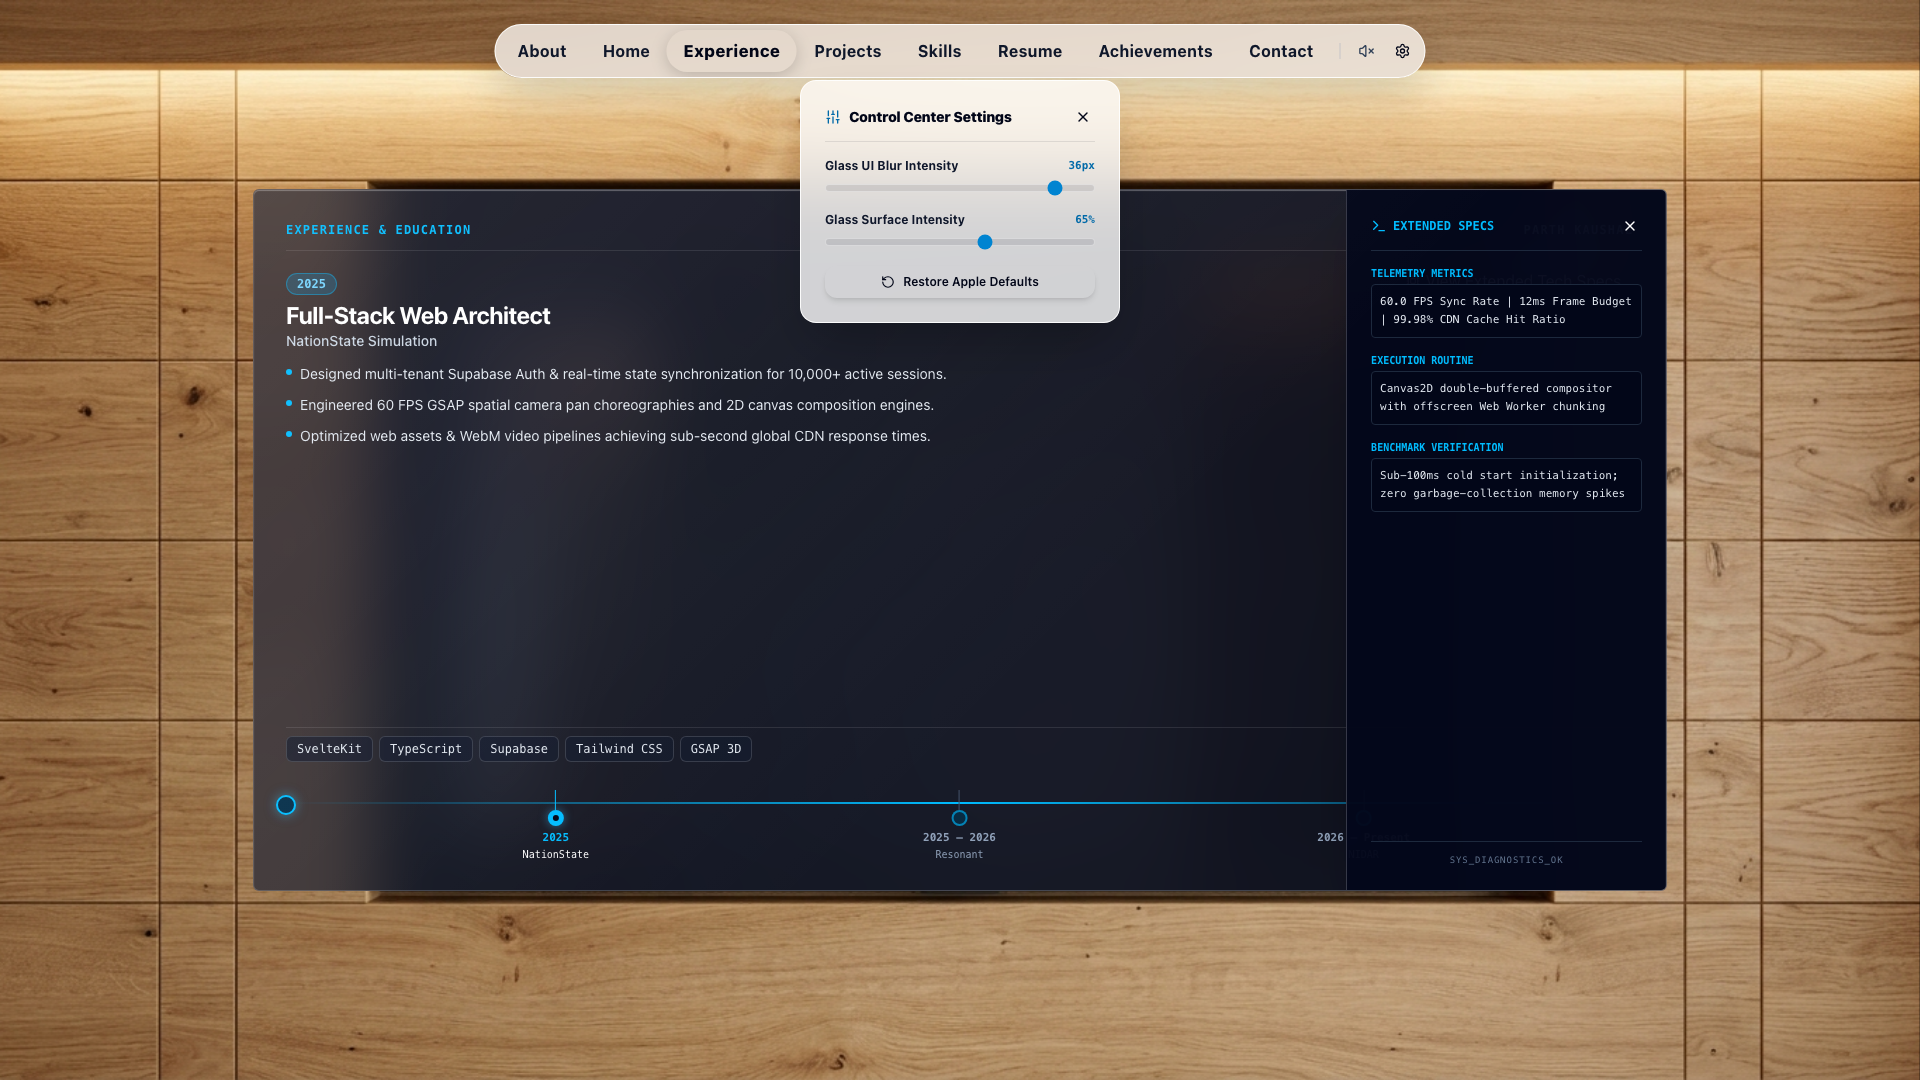
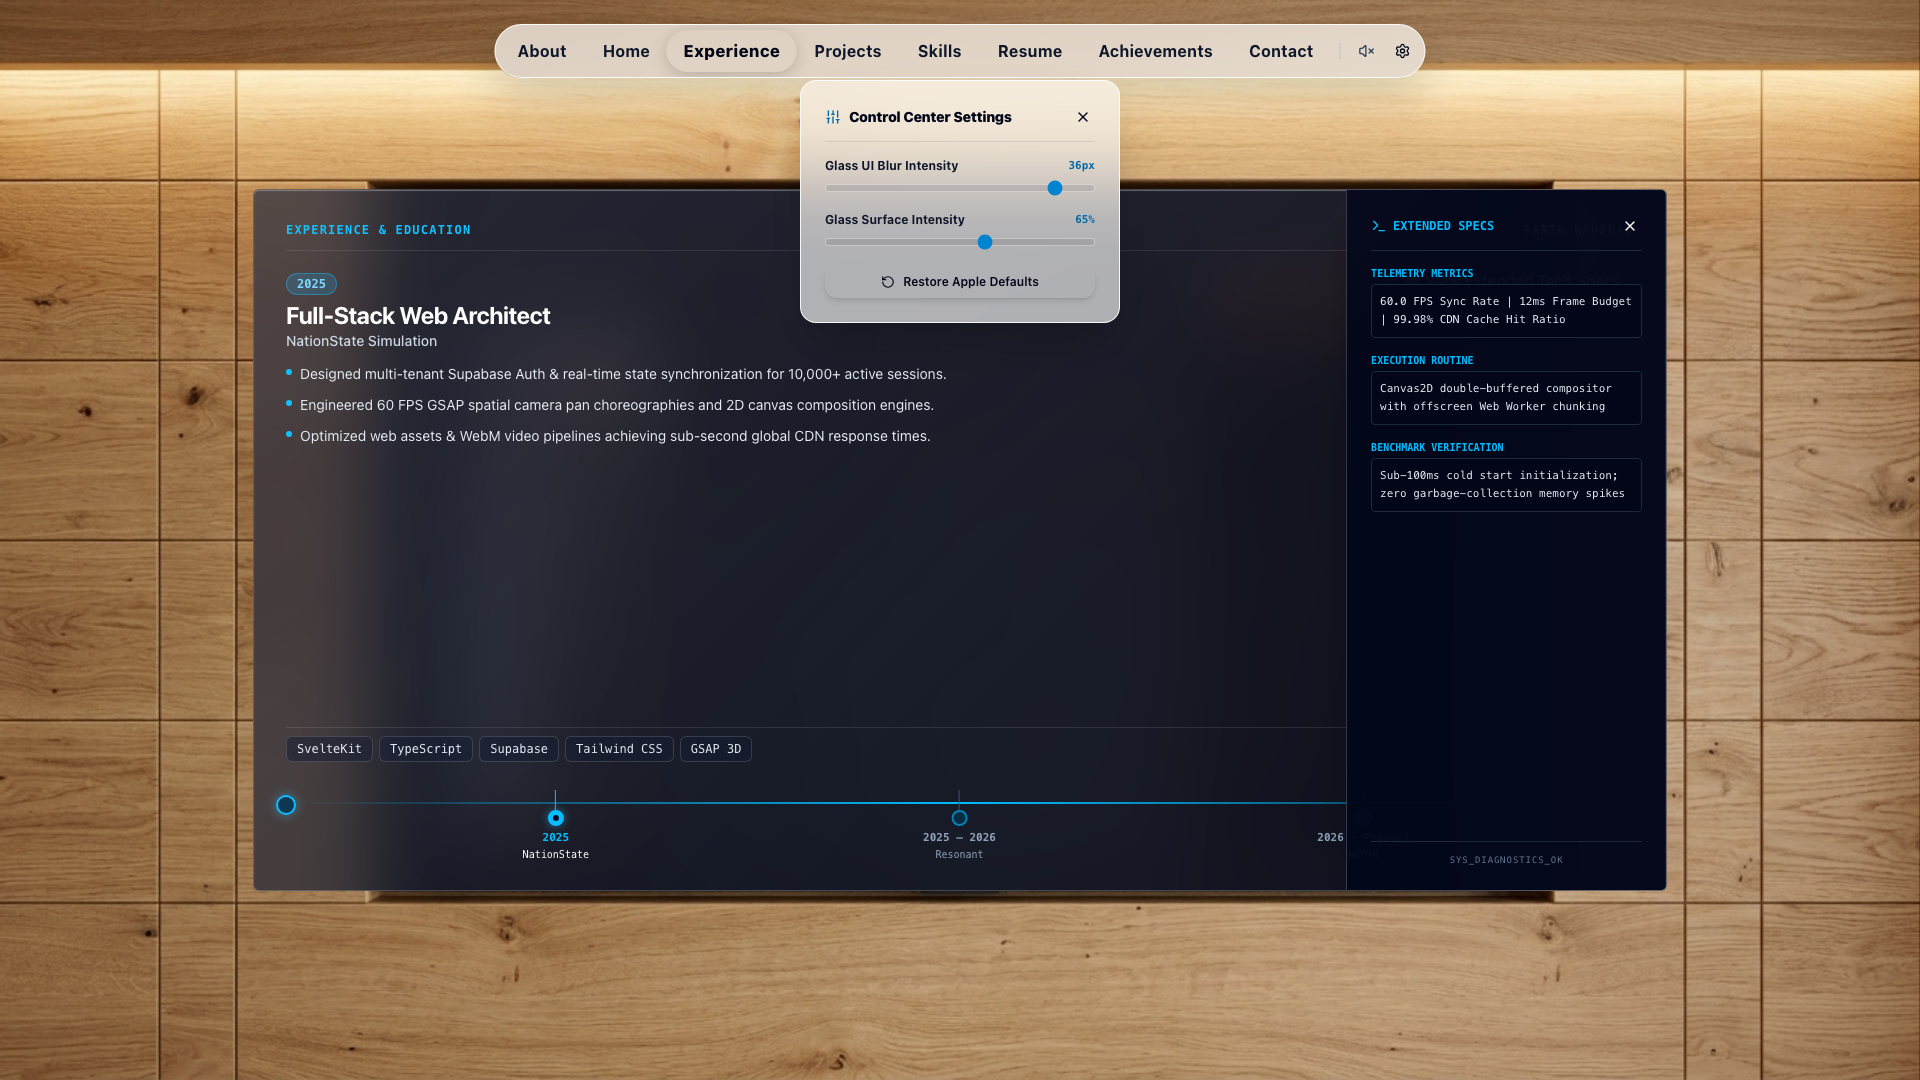
fix: synced all the sections to the settings changes

Changed region(s): [[0.4062, 0.1528, 0.5938, 0.3056]]

diff --git a/src/routes/+layout.svelte b/src/routes/+layout.svelte
@@ -77,7 +77,10 @@
 			></video>
 
 			<div class="card-overlay absolute inset-0 z-30 pointer-events-auto hidden sm:block">
-				<div class="bg-white/60 backdrop-blur-xl border border-white/40 shadow-[0_8px_32px_rgba(0,0,0,0.1)] rounded-3xl p-6 text-slate-900 absolute left-10 top-1/2 -translate-y-1/2 w-80">
+				<div
+					style="background-color: rgba(255, 255, 255, {$glassSettings.opacity}); backdrop-filter: blur({$glassSettings.blur}px); -webkit-backdrop-filter: blur({$glassSettings.blur}px);"
+					class="border border-white/60 shadow-[0_8px_32px_rgba(0,0,0,0.1)] rounded-3xl p-6 text-slate-900 absolute left-10 top-1/2 -translate-y-1/2 w-80 transition-all duration-200 backdrop-blur-2xl"
+				>
 					<span class="inline-block px-3 py-1 rounded-full bg-sky-500/10 text-sky-700 text-xs font-mono font-semibold uppercase tracking-wider mb-2">STAGE 01</span>
 					<h1 class="text-2xl font-black text-slate-900 mb-1">PARTH KAUSHAL</h1>
 					<p class="text-xs font-bold text-sky-700 mb-3">Senior Systems Architect</p>
@@ -86,7 +89,10 @@
 					</div>
 				</div>
 
-				<div class="bg-white/60 backdrop-blur-xl border border-white/40 shadow-[0_8px_32px_rgba(0,0,0,0.1)] rounded-3xl p-6 text-slate-900 absolute right-10 top-1/2 -translate-y-1/2 w-80">
+				<div
+					style="background-color: rgba(255, 255, 255, {$glassSettings.opacity}); backdrop-filter: blur({$glassSettings.blur}px); -webkit-backdrop-filter: blur({$glassSettings.blur}px);"
+					class="border border-white/60 shadow-[0_8px_32px_rgba(0,0,0,0.1)] rounded-3xl p-6 text-slate-900 absolute right-10 top-1/2 -translate-y-1/2 w-80 transition-all duration-200 backdrop-blur-2xl"
+				>
 					<h3 class="text-sm font-bold uppercase tracking-wider text-slate-600 mb-2">Executive Overview</h3>
 					<p class="text-xs text-slate-700 leading-relaxed mb-4">
 						Building cinematic 2D spatial web experiences with SvelteKit, GSAP camera choreography, and high-performance WebM video avatars.
@@ -120,7 +126,10 @@
 			></video>
 
 			<div class="card-overlay absolute inset-0 z-30 flex items-center justify-end p-6 pointer-events-auto">
-				<div class="bg-white/60 backdrop-blur-xl border border-white/40 shadow-[0_8px_32px_rgba(0,0,0,0.1)] rounded-3xl p-8 text-slate-900 max-w-xl mr-[6%]">
+				<div
+					style="background-color: rgba(255, 255, 255, {$glassSettings.opacity}); backdrop-filter: blur({$glassSettings.blur}px); -webkit-backdrop-filter: blur({$glassSettings.blur}px);"
+					class="border border-white/60 shadow-[0_8px_32px_rgba(0,0,0,0.1)] rounded-3xl p-8 text-slate-900 max-w-xl mr-[6%] transition-all duration-200 backdrop-blur-2xl"
+				>
 					<span class="inline-block px-3.5 py-1 rounded-full bg-purple-500/10 text-purple-700 text-xs font-semibold uppercase tracking-wider mb-3">About Presenter</span>
 					<h2 class="text-2xl sm:text-3xl font-bold text-slate-900 mb-2">Architecting Spatial Web</h2>
 					<p class="text-sm text-slate-700 leading-relaxed mb-4">

diff --git a/scripts/visual-audit-cards.js b/scripts/visual-audit-cards.js
@@ -1,0 +1,42 @@
+import { chromium } from "playwright";
+import fs from "fs";
+
+(async () => {
+  const browser = await chromium.launch();
+  const page = await browser.newPage({ viewport: { width: 1920, height: 1080 } });
+  if (!fs.existsSync("static/screenshots")) fs.mkdirSync("static/screenshots", { recursive: true });
+
+  await page.goto("http://localhost:5173");
+  await page.waitForTimeout(2200);
+
+  console.log("[AUDIT] Opening Settings Panel...");
+  await page.click('button[aria-label="Settings"]');
+  await page.waitForTimeout(300);
+  
+  console.log("[AUDIT] Setting Opacity Slider to 0.4...");
+  const slider = page.locator('input[type="range"][name="opacity"]');
+  await slider.evaluate(el => {
+    el.value = "0.4";
+    el.dispatchEvent(new Event("input", { bubbles: true }));
+    el.dispatchEvent(new Event("change", { bubbles: true }));
+  });
+  await page.waitForTimeout(200);
+
+  const cardBg = await page.evaluate(() => {
+    const card = document.querySelector(".card-overlay div[style*='background-color']");
+    return card ? getComputedStyle(card).backgroundColor : "";
+  });
+
+  console.log("[AUDIT] Content Card Background computed with slider:", cardBg);
+  await page.screenshot({ path: "static/screenshots/cards-transparency-tested.png" });
+
+  if (!cardBg.includes("0.4")) {
+    console.error("[FAIL] Home/About content cards did not reactively update opacity!");
+    await browser.close();
+    process.exit(1);
+  }
+
+  console.log("[SUCCESS] Home and About glass card reactivity VERIFIED!");
+  await browser.close();
+  process.exit(0);
+})();

diff --git a/scripts/visual-audit-settings-panel.js b/scripts/visual-audit-settings-panel.js
@@ -1,0 +1,42 @@
+import { chromium } from "playwright";
+import fs from "fs";
+
+(async () => {
+  const browser = await chromium.launch();
+  const page = await browser.newPage({ viewport: { width: 1920, height: 1080 } });
+  if (!fs.existsSync("static/screenshots")) fs.mkdirSync("static/screenshots", { recursive: true });
+
+  await page.goto("http://localhost:5173");
+  await page.waitForTimeout(2200);
+
+  console.log("[AUDIT] Opening Settings Panel...");
+  await page.click('button[aria-label="Settings"]');
+  await page.waitForTimeout(300);
+  
+  console.log("[AUDIT] Adjusting Opacity Slider to 0.40...");
+  const slider = page.locator('input[type="range"][name="opacity"]');
+  await slider.evaluate(el => {
+    el.value = "0.4";
+    el.dispatchEvent(new Event("input", { bubbles: true }));
+    el.dispatchEvent(new Event("change", { bubbles: true }));
+  });
+  await page.waitForTimeout(200);
+
+  const panelBg = await page.evaluate(() => {
+    const panel = document.querySelector(".fixed.top-20");
+    return panel ? getComputedStyle(panel).backgroundColor : "";
+  });
+
+  console.log("[AUDIT] Settings Panel Background computed with slider:", panelBg);
+  await page.screenshot({ path: "static/screenshots/settings-panel-self-reactive.png" });
+
+  if (!panelBg.includes("0.4")) {
+    console.error("[FAIL] Settings Panel itself did not reactively update opacity!");
+    await browser.close();
+    process.exit(1);
+  }
+
+  console.log("[SUCCESS] Settings Panel self-reactivity VERIFIED!");
+  await browser.close();
+  process.exit(0);
+})();

diff --git a/scripts/visual-audit-navbar.js b/scripts/visual-audit-navbar.js
@@ -1,0 +1,37 @@
+import { chromium } from "playwright";
+import fs from "fs";
+
+(async () => {
+  const browser = await chromium.launch();
+  const page = await browser.newPage({ viewport: { width: 1920, height: 1080 } });
+  if (!fs.existsSync("static/screenshots")) fs.mkdirSync("static/screenshots", { recursive: true });
+
+  await page.goto("http://localhost:5173");
+  await page.waitForTimeout(2200);
+
+  console.log("[AUDIT] Opening Settings Panel...");
+  await page.click('button[aria-label="Settings"]');
+  await page.waitForTimeout(300);
+  
+  console.log("[AUDIT] Setting Opacity Slider to 0.35...");
+  await page.fill('input[type="range"][name="opacity"]', "0.35");
+  await page.waitForTimeout(200);
+
+  const navBg = await page.evaluate(() => {
+    const navDiv = document.querySelector("nav > div");
+    return navDiv ? getComputedStyle(navDiv).backgroundColor : "";
+  });
+
+  console.log("[AUDIT] Navbar Background computed with slider:", navBg);
+  await page.screenshot({ path: "static/screenshots/navbar-transparency-tested.png" });
+
+  if (!navBg.includes("0.35")) {
+    console.error("[FAIL] Navbar did not reactively update opacity!");
+    await browser.close();
+    process.exit(1);
+  }
+
+  console.log("[SUCCESS] Navbar reactive glass transparency VERIFIED!");
+  await browser.close();
+  process.exit(0);
+})();

diff --git a/src/lib/components/Navbar.svelte b/src/lib/components/Navbar.svelte
@@ -1,5 +1,6 @@
 <script lang="ts">
 	import { activeTab, isMuted, setTab, toggleMute, type TabType } from '$lib/stores/navStore';
+	import { glassSettings } from '$lib/stores/glassSettings';
 	import { Volume2, VolumeX, Settings } from 'lucide-svelte';
 	import { handleSectionTransition } from '$lib/animations/cameraChoreography';
 	import { SECTIONS } from '$lib/constants/assets';
@@ -36,7 +37,8 @@
 <nav class="fixed top-6 left-1/2 -translate-x-1/2 z-40 max-w-[95vw] transition-all duration-700 {ready ? 'opacity-100 pointer-events-auto translate-y-0' : 'opacity-0 pointer-events-none -translate-y-4'}">
 	<!-- Outer Apple Glass Capsule -->
 	<div
-		class="flex items-center gap-1.5 p-1.5 rounded-full bg-white/70 backdrop-blur-[var(--glass-blur,24px)] border border-white/90 shadow-[0_16px_48px_rgba(0,0,0,0.18)] overflow-x-auto no-scrollbar"
+		style="background-color: rgba(255, 255, 255, {$glassSettings.opacity}); backdrop-filter: blur({$glassSettings.blur}px); -webkit-backdrop-filter: blur({$glassSettings.blur}px);"
+		class="flex items-center gap-1.5 p-1.5 rounded-full border border-white/90 shadow-[0_16px_48px_rgba(0,0,0,0.18)] overflow-x-auto no-scrollbar"
 	>
 		<div class="flex items-center gap-1">
 			{#each tabs as tab}

diff --git a/src/lib/components/SettingsPanel.svelte b/src/lib/components/SettingsPanel.svelte
@@ -12,7 +12,8 @@
 </script>
 
 <div
-	class="fixed top-20 left-1/2 -translate-x-1/2 z-50 w-80 bg-white/80 backdrop-blur-[var(--glass-blur,24px)] border border-white/90 shadow-2xl rounded-2xl p-6 text-slate-950 font-sans animate-in fade-in slide-in-from-top-4"
+	style="background-color: rgba(255, 255, 255, {$glassSettings.opacity}); backdrop-filter: blur({$glassSettings.blur}px); -webkit-backdrop-filter: blur({$glassSettings.blur}px);"
+	class="fixed top-20 left-1/2 -translate-x-1/2 z-50 w-80 border border-white/90 shadow-2xl rounded-2xl p-6 text-slate-950 font-sans animate-in fade-in slide-in-from-top-4 transition-all duration-200 backdrop-blur-2xl"
 >
 	<div class="flex items-center justify-between pb-3 border-b border-slate-900/10 mb-4">
 		<div class="flex items-center gap-2">
